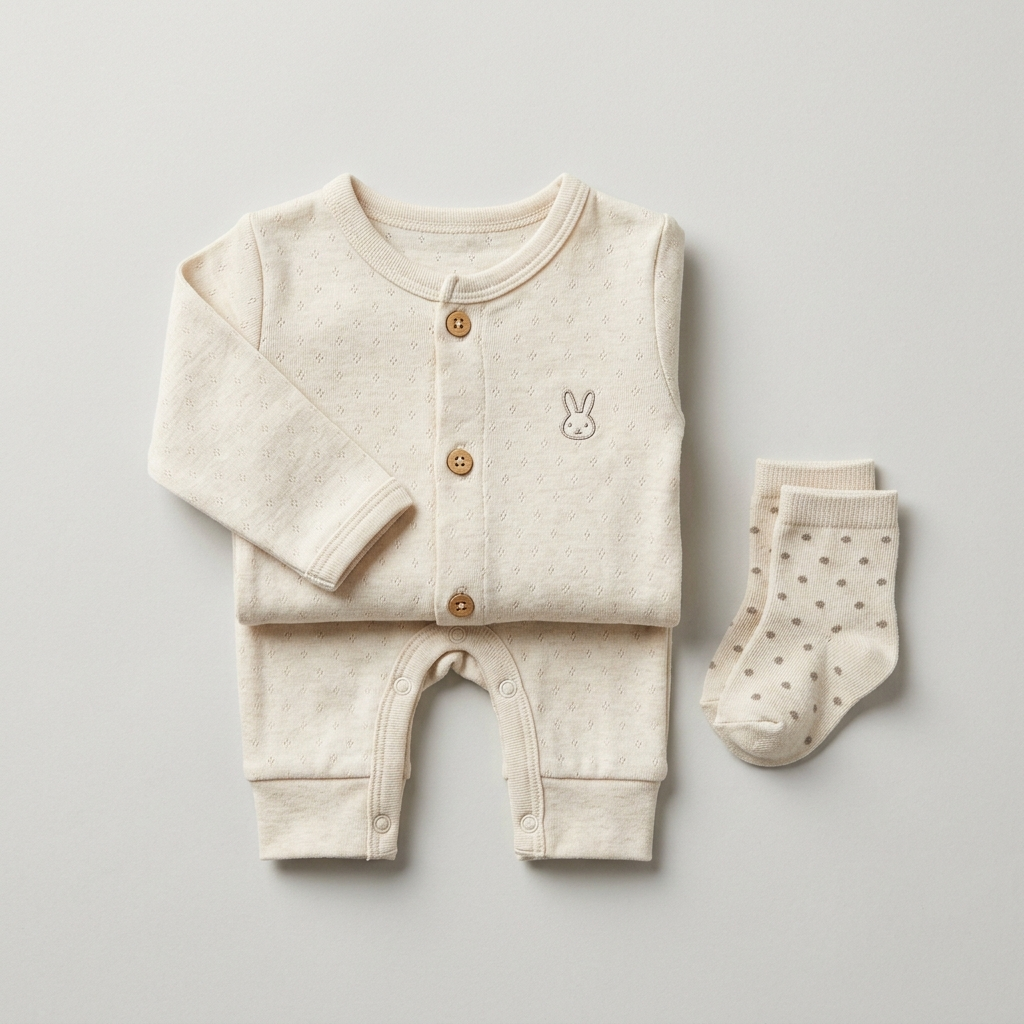
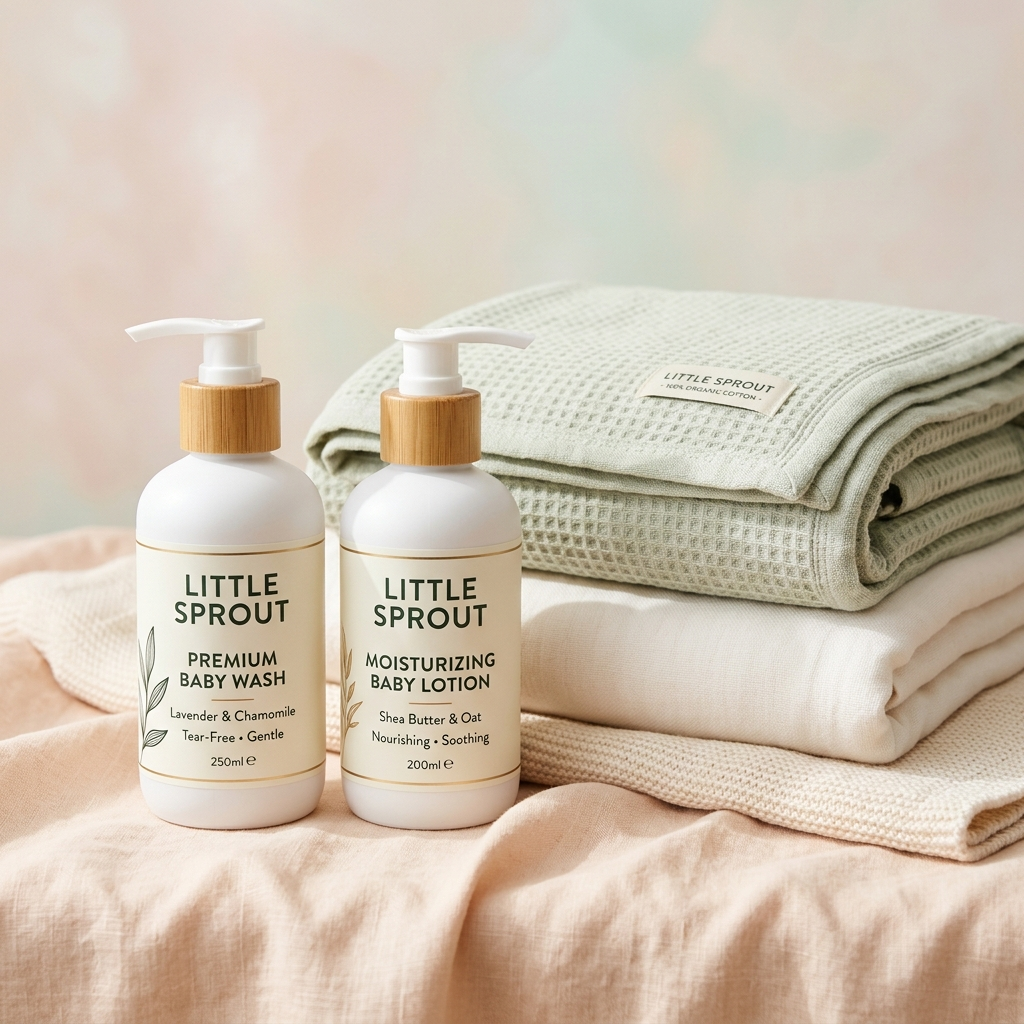
Wire subcategories 2 through 11 in MiscFeed.tsx

diff --git a/components/tabs/home/misc/MiscFeed.tsx b/components/tabs/home/misc/MiscFeed.tsx
@@ -14,16 +14,16 @@ const ACCENT = "#4A4A6A";
 
 const SUB_CATS: SubCat[] = [
   { key: "pets",       label: "Pet Supplies",     icon: "paw-outline",             bg: "#FEF3C7", imageUrl: require("../../../../assets/images/category/products/home_misc_pets.png") },
-  { key: "baby",       label: "Baby Care",        icon: "balloon-outline",         bg: "#FCE7F3" },
-  { key: "gifts",      label: "Gifts",            icon: "gift-outline",            bg: "#EDE9FE" },
-  { key: "travel",     label: "Travel",           icon: "airplane-outline",        bg: "#DBEAFE" },
-  { key: "luggage",    label: "Luggage",          icon: "briefcase-outline",       bg: "#F3F4F6" },
-  { key: "seasonal",   label: "Seasonal Decor",   icon: "sparkles-outline",        bg: "#FEF3C7" },
-  { key: "office",     label: "Office Supplies",  icon: "print-outline",           bg: "#DCFCE7" },
-  { key: "toys",       label: "Toys",             icon: "game-controller-outline", bg: "#FCE7F3" },
-  { key: "artcraft",   label: "Art & Craft",      icon: "color-palette-outline",   bg: "#ECFDF5" },
-  { key: "party",      label: "Party Supplies",   icon: "people-outline",          bg: "#FFEDD5" },
-  { key: "auto",       label: "Automotive",       icon: "car-outline",             bg: "#EDE9FE" },
+  { key: "baby",       label: "Baby Care",        icon: "balloon-outline",         bg: "#FCE7F3", imageUrl: require("../../../../assets/images/category/products/home_misc_baby.png") },
+  { key: "gifts",      label: "Gifts",            icon: "gift-outline",            bg: "#EDE9FE", imageUrl: require("../../../../assets/images/category/products/home_misc_gifts.png") },
+  { key: "travel",     label: "Travel",           icon: "airplane-outline",        bg: "#DBEAFE", imageUrl: require("../../../../assets/images/category/products/home_misc_travel.png") },
+  { key: "luggage",    label: "Luggage",          icon: "briefcase-outline",       bg: "#F3F4F6", imageUrl: require("../../../../assets/images/category/products/home_misc_luggage.png") },
+  { key: "seasonal",   label: "Seasonal Decor",   icon: "sparkles-outline",        bg: "#FEF3C7", imageUrl: require("../../../../assets/images/category/products/home_misc_seasonal.png") },
+  { key: "office",     label: "Office Supplies",  icon: "print-outline",           bg: "#DCFCE7", imageUrl: require("../../../../assets/images/category/products/home_misc_office.png") },
+  { key: "toys",       label: "Toys",             icon: "game-controller-outline", bg: "#FCE7F3", imageUrl: require("../../../../assets/images/category/products/home_misc_toys.png") },
+  { key: "artcraft",   label: "Art & Craft",      icon: "color-palette-outline",   bg: "#ECFDF5", imageUrl: require("../../../../assets/images/category/products/home_misc_artcraft.png") },
+  { key: "party",      label: "Party Supplies",   icon: "people-outline",          bg: "#FFEDD5", imageUrl: require("../../../../assets/images/category/products/home_misc_party.png") },
+  { key: "auto",       label: "Automotive",       icon: "car-outline",             bg: "#EDE9FE", imageUrl: require("../../../../assets/images/category/products/home_misc_auto.png") },
   { key: "garden",     label: "Gardening",        icon: "leaf-outline",            bg: "#DCFCE7" },
 ];
 